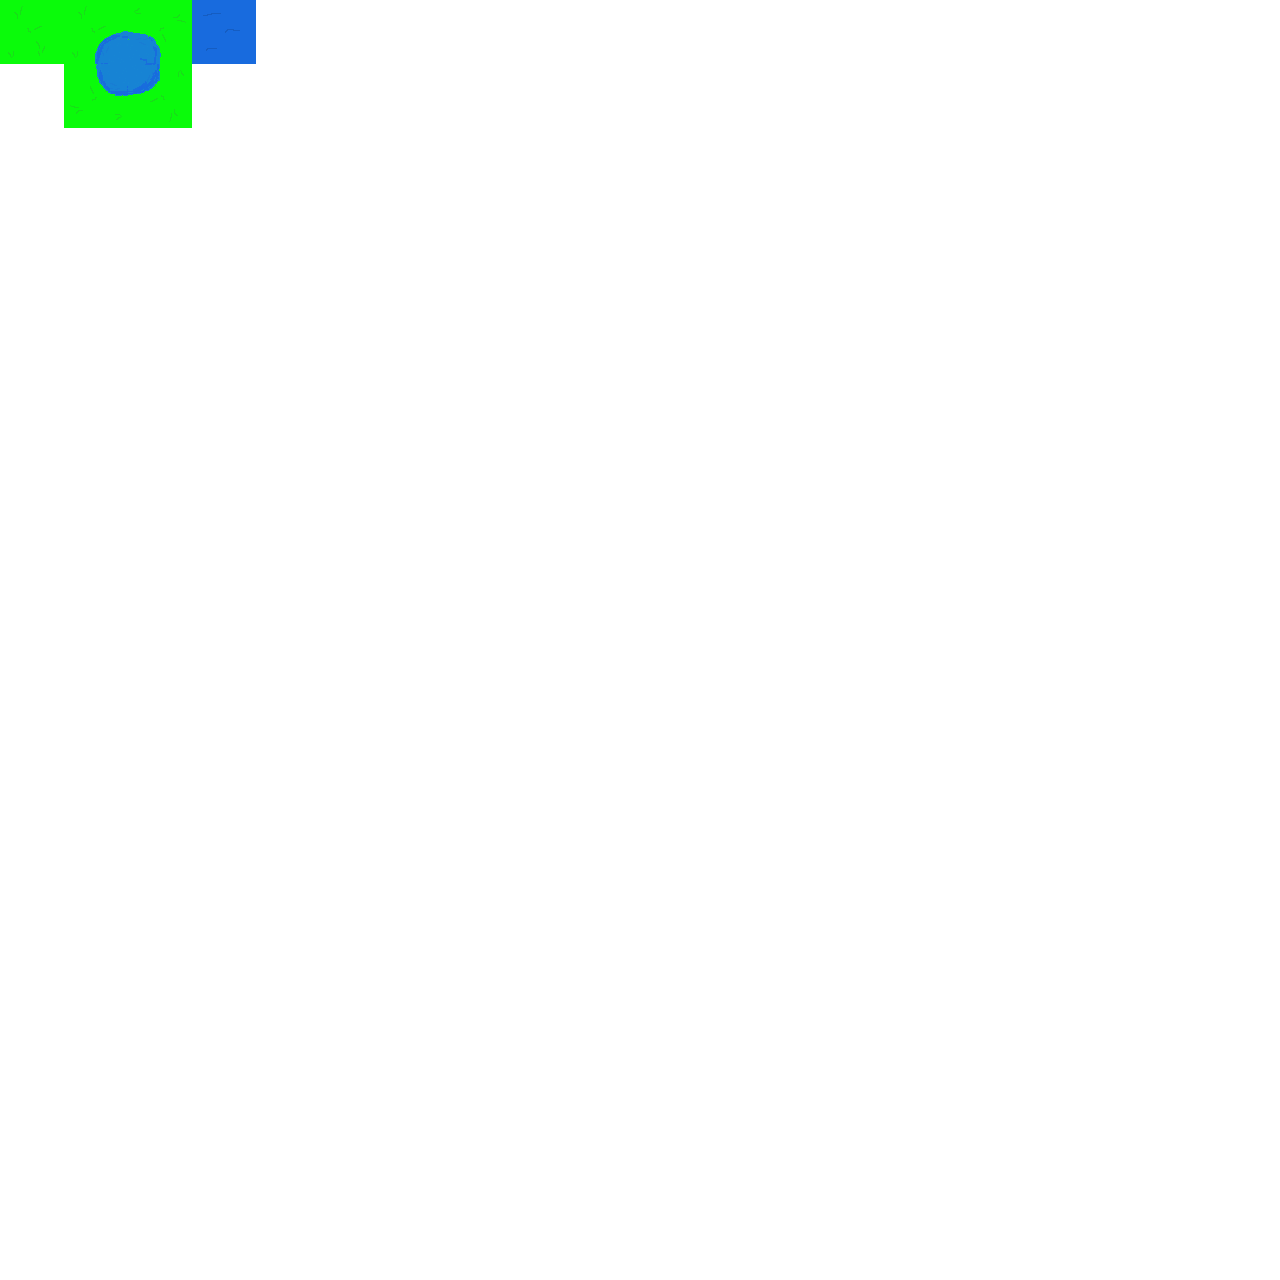
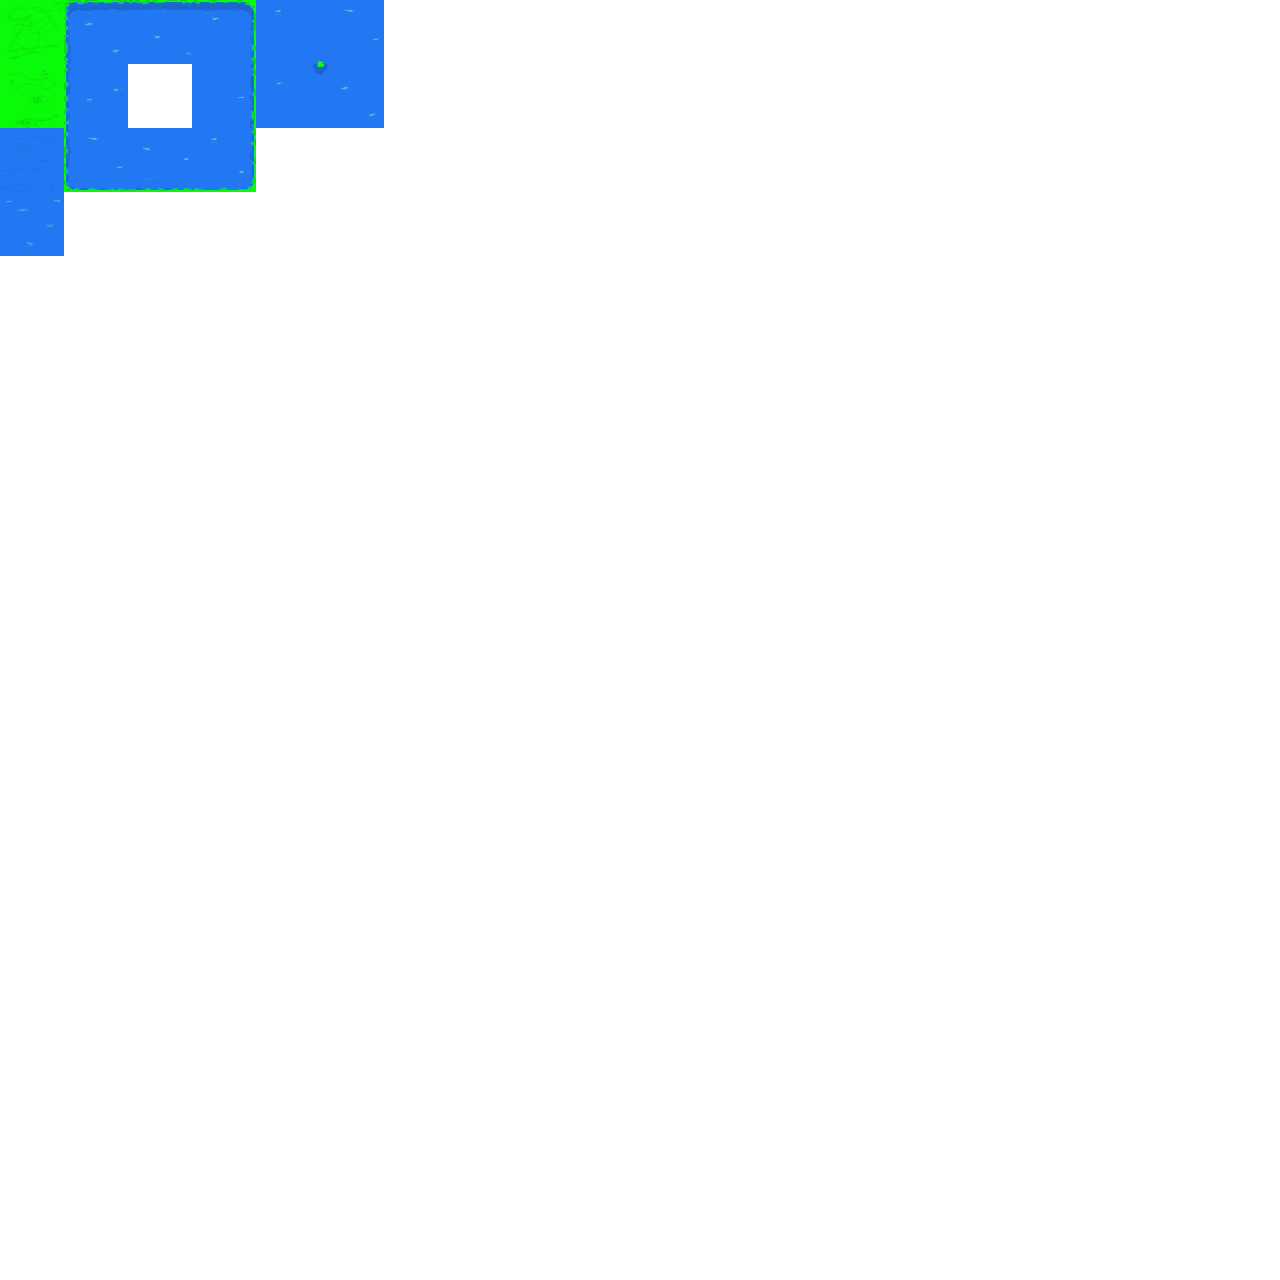
Improved base TileSheet

Changed region(s): [[0.0, 0.0, 0.3125, 0.2188]]

diff --git a/src/main/java/com/cristoffer85/Tile/Tile.java b/src/main/java/com/cristoffer85/Tile/Tile.java
@@ -15,7 +15,20 @@ public class Tile {
 
     // COLLIDABLE TILES values go here (from array value from tilesheet)
     static {
-        collidableTileIds.add(3);
+        collidableTileIds.add(1);   // Grass water top left corner
+        collidableTileIds.add(2);   // Grass water top center
+        collidableTileIds.add(3);   // Grass water top right corner
+        collidableTileIds.add(4);   // Grass water top left outer corner
+        collidableTileIds.add(5);   // Grass water top right outer corner
+        collidableTileIds.add(21);  // Grass water left center
+        collidableTileIds.add(23);  // Grass water right center
+        collidableTileIds.add(24);  // Grass water bottom left outer corner
+        collidableTileIds.add(25);  // Grass water bottom right outer corner
+        collidableTileIds.add(40);  // Water base
+        collidableTileIds.add(41);  // Grass water bottom left corner
+        collidableTileIds.add(42);  // Grass water bottom center
+        collidableTileIds.add(43);  // Grass water bottom right corner
+        collidableTileIds.add(80);  // Water waves
     }
 
     public Tile(BufferedImage image, int tileId, boolean collidable) {
